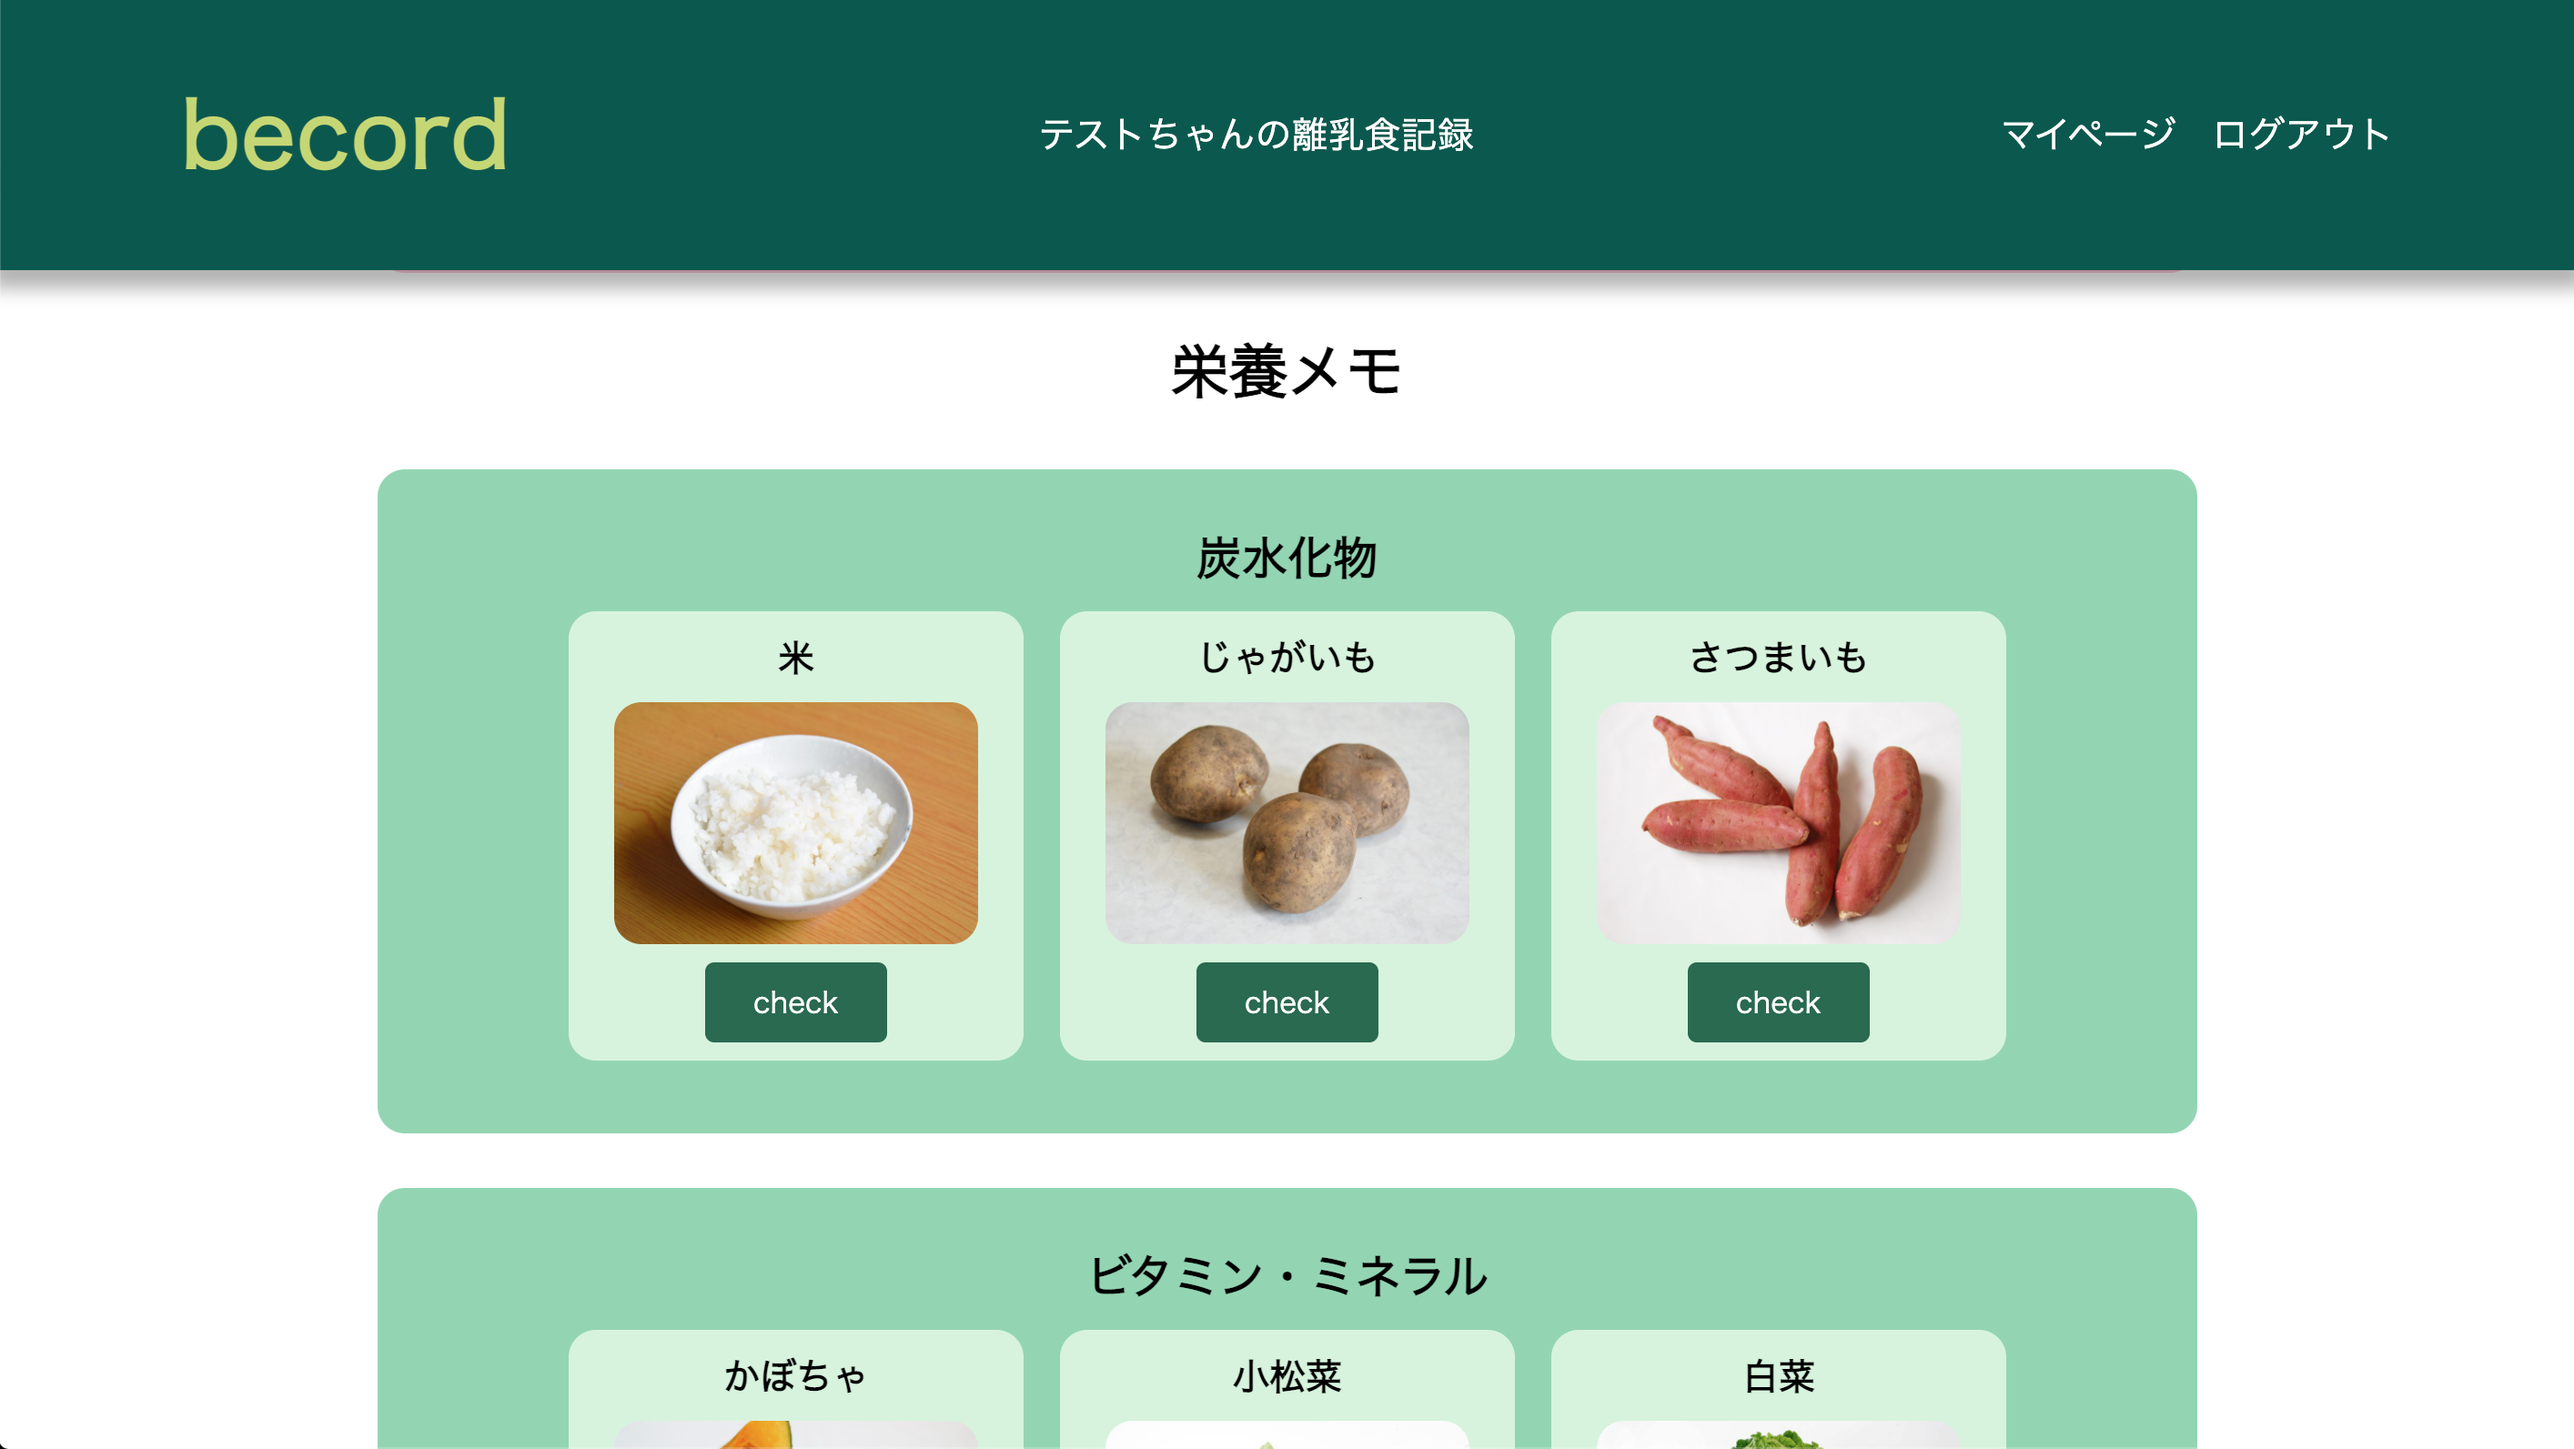
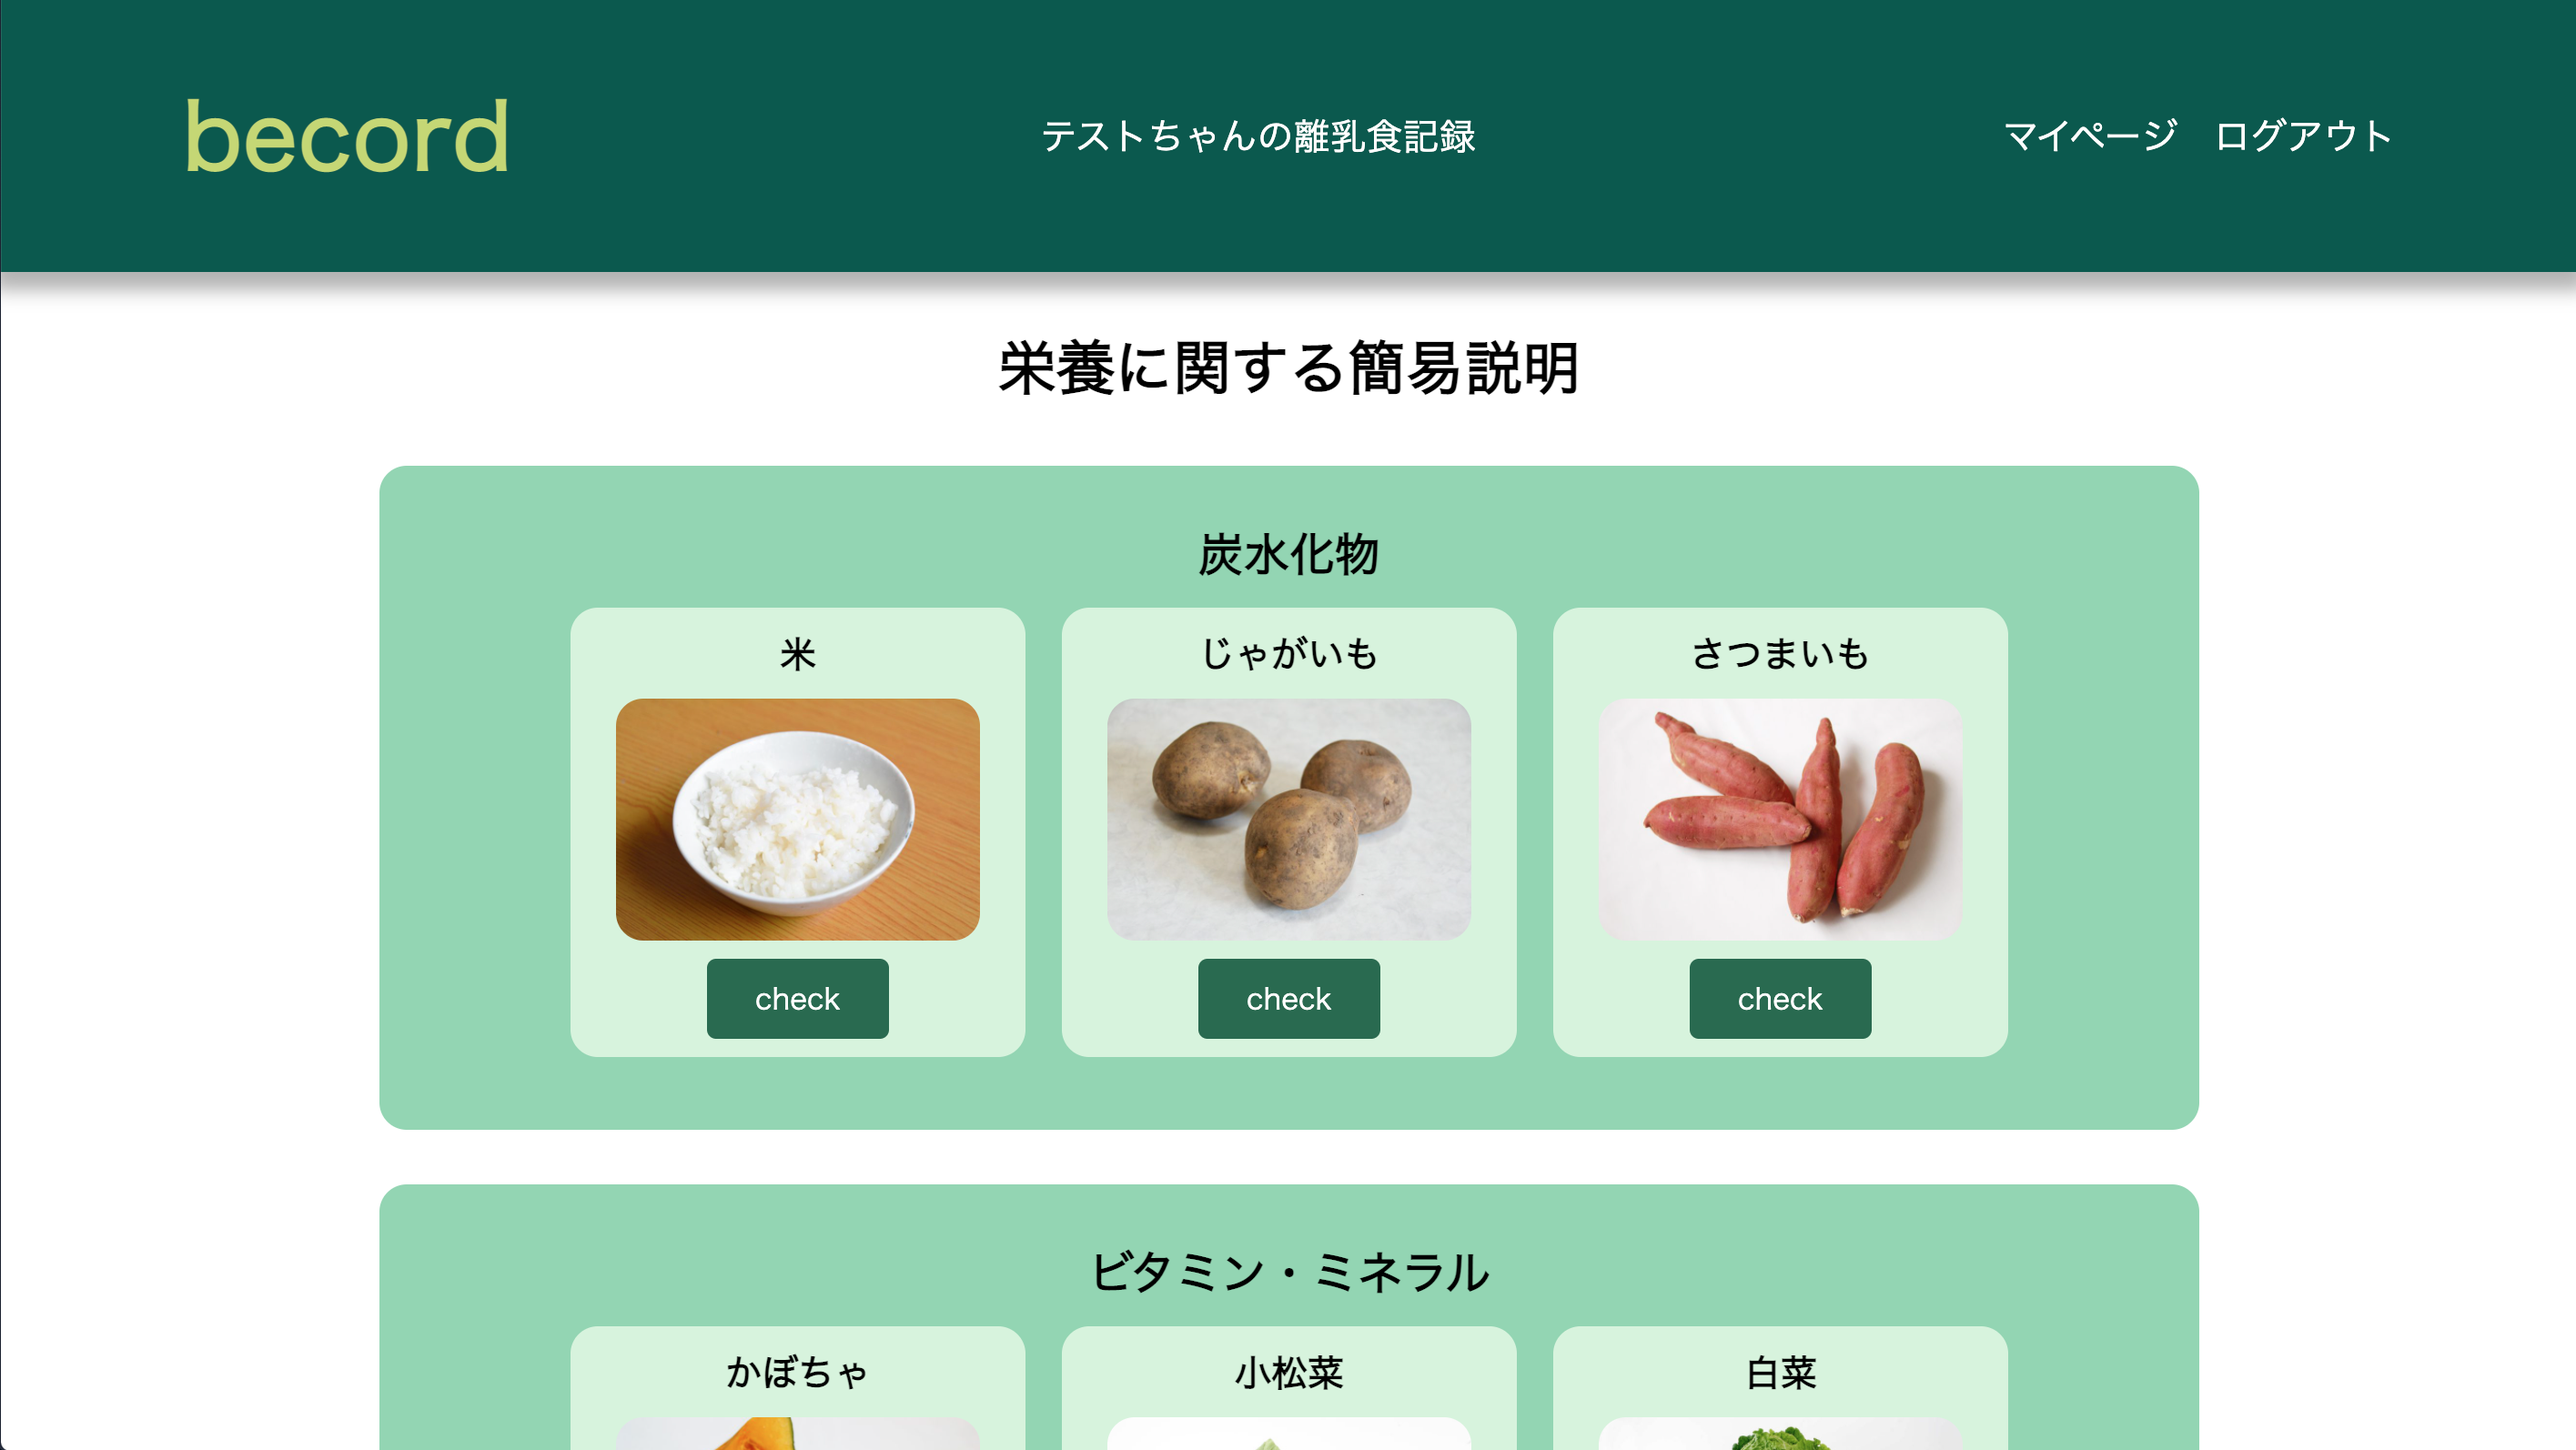
見出し変更に伴う修正

diff --git a/index.html b/index.html
@@ -42,17 +42,17 @@
                             <p>9日間</p>
                         </div>
                         <div class="wrapper">
-                            <h2>制作背景の設定</h3>
-                            <p>ホームページで集客を強めたいと考えているお店の力になるため。</p>
+                            <h2>制作の目的</h3>
+                            <p>ページ訪問者がそのお店に行きたくなるようなホームページを制作すること。</p>
                         </div>
                         <div class="wrapper">
                             <h2>制作のポイント</h3>
                             <ul>
-                                <li>レスポンシブWebデザイン(ブレイクポイントは1つ)</li>
+                                <li>レスポンシブWebデザイン(ブレイクポイントは1つ)を取り入れています。</li>
                                 <li>ヘッダーのナビゲーションをクリックで該当箇所にスクロールすることにより、操作性を高めています。</li>
-                                <li>スライダーをトップ前面に配置し、インパクトを出しています。</li>
-                                <li>PC版では、スライダー上に目印を配置することで、スクロールしてもらいやすくしています。</li>
-                                <li>見出しがフェードインすることで、ユーザーに飽きさせない工夫をしています。</li>
+                                <li>スライダー(画像)をトップ全面に配置し、インパクトを出しています。</li>
+                                <li>PC版では、スライダー(画像)上に目印を配置することで、スクロールしてもらいやすくしています。</li>
+                                <li>見出しがフェードインすることで、ページ訪問者に飽きさせない工夫をしています。</li>
                             </ul>
                         </div>
                     </div>
@@ -76,15 +76,15 @@
                             <p>21日間</p>
                         </div>
                         <div class="wrapper">
-                            <h2>制作背景</h3>
-                            <p>離乳食記録のペーパーレス化。共働き世帯の増加に伴い、保育園に通う子供も増加。入園するにあたり、食べたことのある食材やアレルギーの調査票を記入する際に役立つと考えたため。</p>
+                            <h2>制作の目的</h3>
+                            <p>食べたことのある食材やアレルギーの記録に役立てること。離乳食を記録するだけでなく、栄養に関する簡易説明のページを設けることで、親の食知識を増やせるようにしています。</p>
                         </div>
                         <div class="wrapper">
                             <h2>制作のポイント</h3>
                             <ul>
-                                <li>レスポンシブWebデザイン(ブレイクポイントは1つ)</li>
-                                <li>栄養メモページでは、checkボタンをクリックすると文字が現れるようになっていて、ユーザーが見たい情報に集中できるよう工夫した。
-                                <li>離乳食記録ページでは、食べた食材の情報を一覧表示で確認できる。</li>
+                                <li>レスポンシブWebデザイン(ブレイクポイントは1つ)を取り入れています。</li>
+                                <li>栄養に関する簡易説明のページでは、checkボタンをクリックすると文字が現れるようになっており、ユーザーが見たい情報に集中できるよう工夫しました。
+                                <li>離乳食記録ページでは、食べた食材の情報を一覧表示で確認できます。</li>
                             </ul>
                         </div>
                     </div>

diff --git a/css/style.css b/css/style.css
@@ -3,6 +3,7 @@ body{
     color: #333;
     font-family: "Hiragino Kaku Gothic ProN", Meiryo, sans-serif;
     margin: 0;
+    background-color: #f0f8ff;
 }
 /*ベース・共通部分 END*/
 /*ヘッダーSTART*/
@@ -75,7 +76,6 @@ span {
 }
 .wrapper a:hover{
     color: #cf1126;
-    font-size: 30px;
 }
 .wrapper ul{
     margin-left: 20px;
